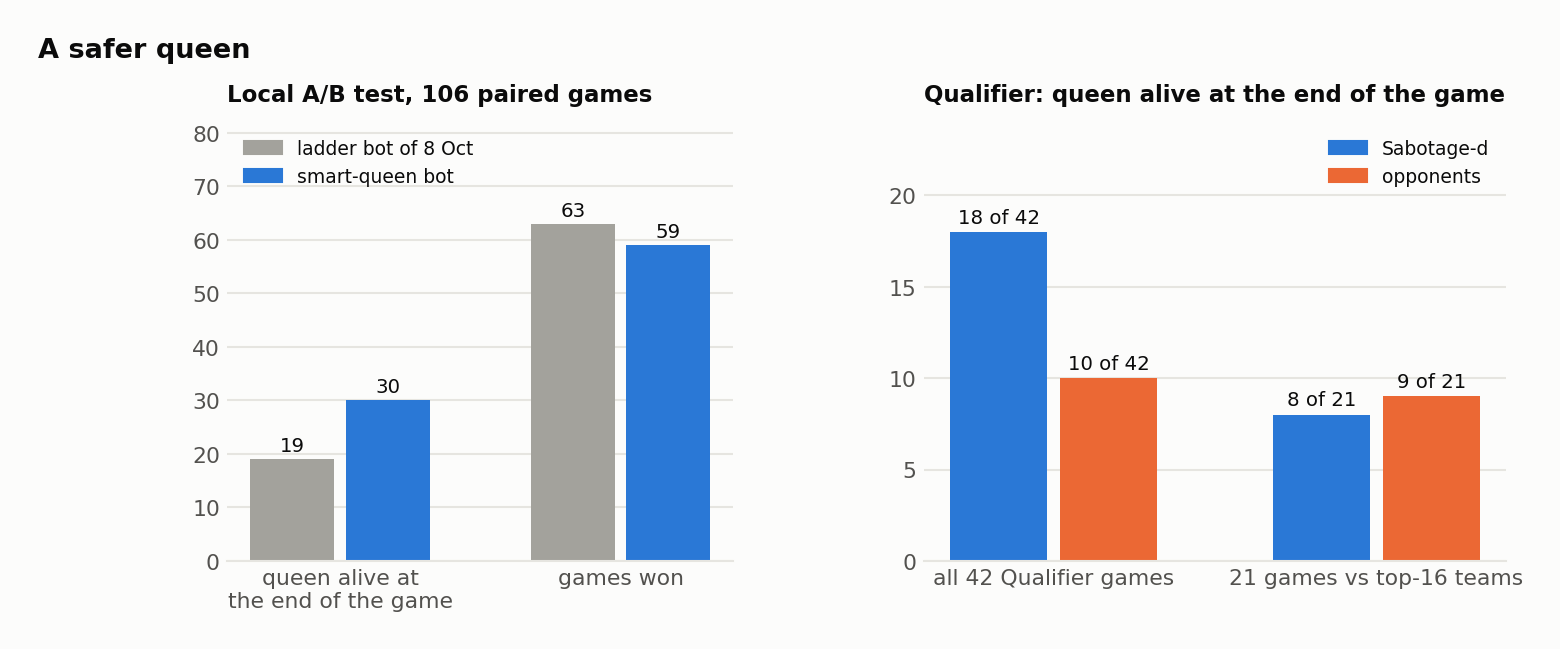
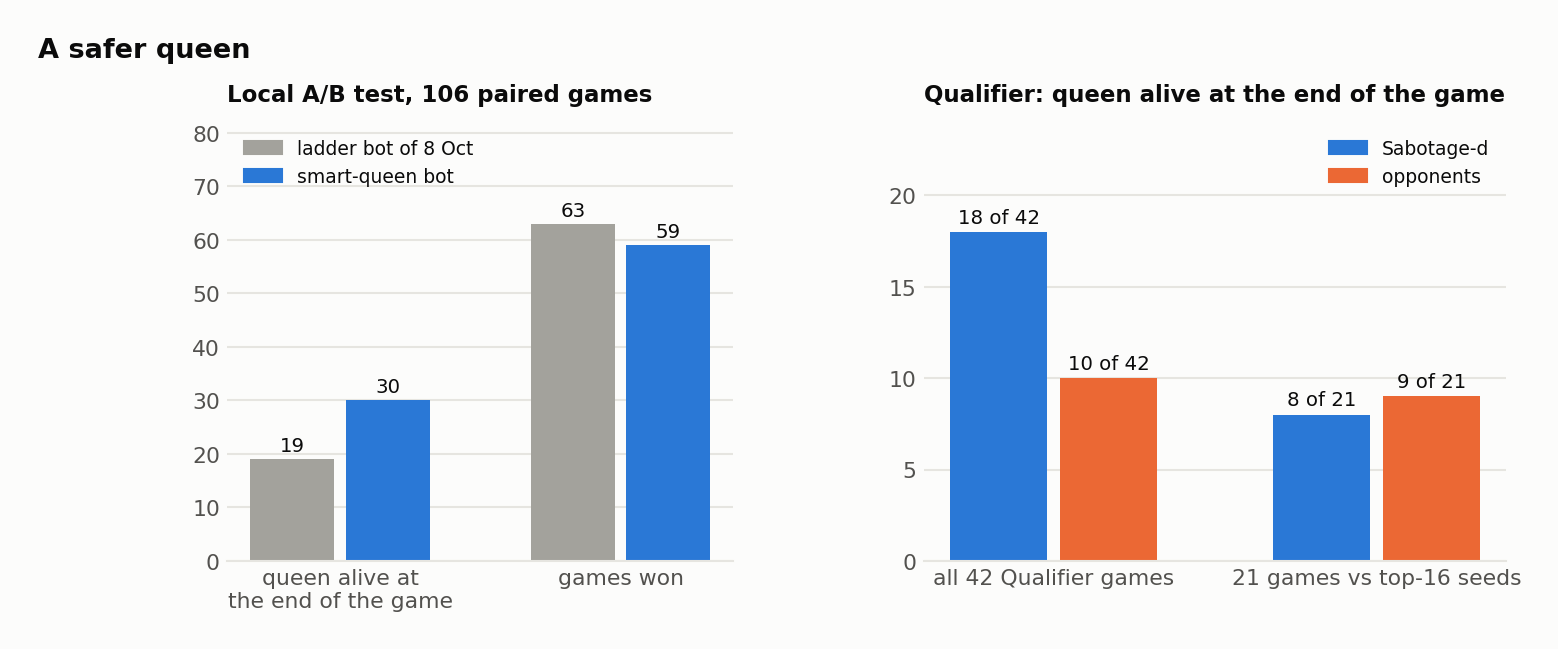
End the GIFs on the final board
A GIF whose range reaches the last round now ends on the board after
round 500, so the whole-game GIF shows the last ram and the result. The
opening strip shows round 0 (9 dragons each) instead of round 1, and
the charts say "top-16 seeds".

Claude-Session: https://claude.ai/code/session_01CiwfvR6wJtGzi2qBwUvsQN

diff --git a/tools/render_replay.py b/tools/render_replay.py
@@ -338,7 +338,8 @@ def main(argv=None):
     ap.add_argument("-o", "--out", default=None, help="output .png or .gif")
     ap.add_argument("--round", type=int, action="append", help="round to draw (repeat for several PNGs)")
     ap.add_argument("--end", action="store_true", help="draw the final board")
-    ap.add_argument("--gif", default=None, help="first:last:step rounds for an animated GIF")
+    ap.add_argument("--gif", default=None, help="first:last:step rounds for an animated GIF (ends on the final board "
+                    "when last reaches the end of the game)")
     ap.add_argument("--ms", type=int, default=110, help="GIF frame time in ms")
     ap.add_argument("--view", default=None, help="x0,y0,width,height: draw part of the map (wraps)")
     ap.add_argument("--scale", type=int, default=None, help="pixels per tile")
@@ -380,6 +381,8 @@ def main(argv=None):
         frames = [painter.draw(snaps[r], a.caption, marks) for r in want if r in snaps]
         if not frames:
             raise SystemExit("no rounds in range")
+        if hi >= snaps["end"].rnd - 1:                     # the range reaches the last round: end on the final board
+            frames.append(painter.draw(snaps["end"], a.caption, marks))
         out = a.out or "replay.gif"
         save_gif(frames, out, ms=a.ms)
         print("wrote", out, len(frames), "frames")

diff --git a/tools/make_charts.py b/tools/make_charts.py
@@ -195,7 +195,7 @@ def chart_longest_top16():
     ax.scatter([], [], s=58, color=THEM, label="opponent")
     ax.legend(loc="lower right", fontsize=9.5)
     longer = sum(1 for g in G if g["them"]["longest"] > g["us"]["longest"])
-    ax.set_title("Against the top-16 teams, their longest dragon was longer in %d of %d games" % (longer, len(G)), x=-0.2)
+    ax.set_title("Against the top-16 seeds, their longest dragon was longer in %d of %d games" % (longer, len(G)), x=-0.2)
     save(fig, "longest-vs-top16.png")
 
 
@@ -262,7 +262,7 @@ def chart_queen():
     a1.set_title("Local A/B test, %d paired games" % n_ab, fontsize=11)
     a1.legend([plt.Rectangle((0, 0), 1, 1, color=c) for c in (GRAY, US)], ["ladder bot of 8 Oct", "smart-queen bot"],
               fontsize=9, loc="upper left")
-    groups = [("all 42 Qualifier games", G), ("21 games vs top-16 teams", top)]
+    groups = [("all 42 Qualifier games", G), ("21 games vs top-16 seeds", top)]
     for i, (lab, gs) in enumerate(groups):
         ours = sum(g["our_queen"]["alive"] for g in gs)
         theirs = sum(g["their_queen"]["alive"] for g in gs)
